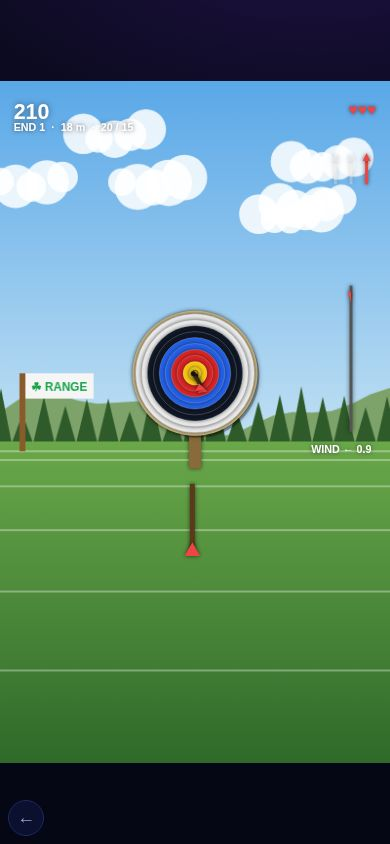
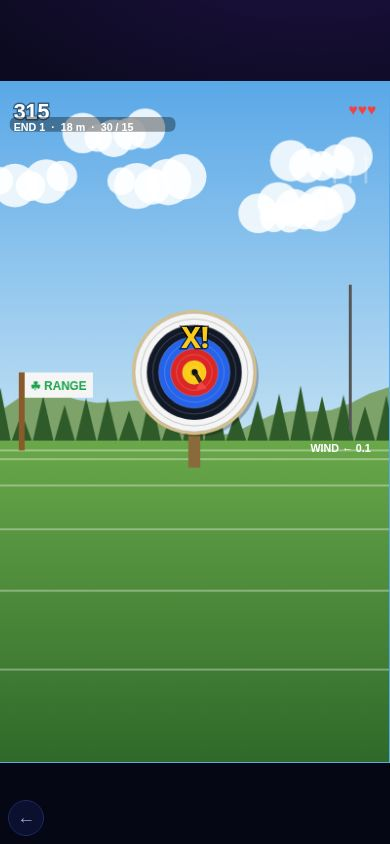
games-lib: Bullseye fix (g.end clash broke game over; perf cache); e2e + bug pass PASS

diff --git a/public/games-lib/bullseye/game.js b/public/games-lib/bullseye/game.js
@@ -11,21 +11,22 @@
     c.strokeStyle = 'rgba(255,255,255,.35)'; c.lineWidth = 2; for (let i = 0; i < 6; i++) { const y = 380 + i * i * 9; c.beginPath(); c.moveTo(0, y); c.lineTo(W, y); c.stroke(); }
     c.fillStyle = '#8a5a2a'; c.fillRect(20, 300, 6, 80); c.fillStyle = '#f5f5f5'; c.fillRect(26, 300, 70, 26); c.fillStyle = '#16a34a'; c.font = 'bold 12px sans-serif'; c.fillText('\u2618 RANGE', 32, 318);
     return (SKY = cv); }
-  function target(c, x, y, r) { const cols = ['#f5f5f5', '#f5f5f5', '#111827', '#111827', '#2563eb', '#2563eb', '#dc2626', '#dc2626', '#facc15', '#facc15'];
+  const TC = {}; function target(c, x, y, r) { const k = Math.round(r); if (!TC[k]) { const cv = document.createElement('canvas'); cv.width = k * 2.4 + 8; cv.height = k * 3 + 8; target0(cv.getContext('2d'), cv.width / 2, k * 1.2 + 4, k); TC[k] = cv; } c.drawImage(TC[k], x - TC[k].width / 2, y - k * 1.2 - 4); }
+  function target0(c, x, y, r) { const cols = ['#f5f5f5', '#f5f5f5', '#111827', '#111827', '#2563eb', '#2563eb', '#dc2626', '#dc2626', '#facc15', '#facc15'];
     c.fillStyle = '#8a6a3a'; c.fillRect(x - r * 0.1, y, r * 0.2, r * 1.6); c.save(); c.translate(x, y); c.fillStyle = 'rgba(0,0,0,.25)'; c.beginPath(); c.arc(r * 0.06, r * 0.06, r * 1.02, 0, 7); c.fill(); c.fillStyle = '#d6c08a'; c.beginPath(); c.arc(0, 0, r * 1.05, 0, 7); c.fill();
     for (let i = 0; i < 10; i++) { const rr = r * (1 - i / 10); c.fillStyle = cols[i]; c.beginPath(); c.arc(0, 0, rr, 0, 7); c.fill(); c.strokeStyle = i < 2 ? '#999' : 'rgba(255,255,255,.4)'; c.lineWidth = Math.max(0.5, r / 120); c.stroke(); } c.strokeStyle = '#111'; c.beginPath(); c.arc(0, 0, r * 0.05, 0, 7); c.stroke(); c.restore(); }
-  function newEnd(g) { g.arrows = 3; g.endScore = 0; g.hits = []; g.dist = 18 + g.end * 6; g.wind = g.R(-1, 1) * Math.min(12, 2 + g.end * 1.2); g.need = 15; }
+  function newEnd(g) { g.arrows = 3; g.endScore = 0; g.hits = []; g.dist = 18 + g.endN * 6; g.wind = g.R(-1, 1) * Math.min(12, 2 + g.endN * 1.2); g.need = 15; }
   Kit.run({ id: 'gl-bullseye', title: 'BULLSEYE', help: 'Press and drag to aim, release to shoot. The sight steadies, then tires after 3 s\nAim into the wind and above for drop. Hit 15+ per end of 3 arrows', bg: '#5aa8e8',
-    init(g) { g.end = 0; g.lives = 3; g.xs = 0; g.fly = null; newEnd(g); g.aim = { x: TX, y: TY }; g.hold = 0; g.hud = ''; },
+    init(g) { g.endN = 0; g.lives = 3; g.xs = 0; g.fly = null; newEnd(g); g.aim = { x: TX, y: TY }; g.hold = 0; g.hud = ''; },
     update(g, dt) { const P = g.ptr; const r = 1100 / g.dist; // target radius in px
       if (g.fly) { const f = g.fly; f.t += dt; if (f.t >= f.T) { const hx = f.x, hy = f.y, d = Math.hypot(hx - TX, hy - TY) / r; const ring = d <= 0.05 ? 11 : Math.max(0, 10 - Math.floor(d * 10)); const pts = ring === 11 ? 10 : ring;
           g.hits.push({ x: (hx - TX) / r, y: (hy - TY) / r }); g.endScore += pts; g.add(pts * 10 + (ring === 11 ? 5 : 0), 'arrow'); if (ring === 11) { g.xs++; g.mark('x', g.xs); } g.sfx(pts ? 'hit' : 'bad'); g.shake(pts ? 2 : 0); g.float(hx, hy - 30, ring === 11 ? 'X!' : pts ? String(pts) : 'MISS', ring >= 9 ? '#facc15' : '#fff', ring >= 9 ? 30 : 22); g.fly = null; g.arrows--; if (navigator.vibrate) navigator.vibrate(10);
           if (g.arrows <= 0) { g.endT = 1.4; } } return; }
-      if (g.endT) { g.endT -= dt; if (g.endT <= 0) { g.endT = 0; if (g.endScore < g.need) { g.lives--; g.sfx('bad'); g.float(200, 520, 'END ' + g.endScore + ' / ' + g.need + ' - LIFE LOST', '#ff5a5a', 18); if (g.lives <= 0) return g.end('Missed the cut'); } else { g.add(g.end * 20, 'end'); } g.end++; g.mark('e', g.end); newEnd(g); } return; }
+      if (g.endT) { g.endT -= dt; if (g.endT <= 0) { g.endT = 0; if (g.endScore < g.need) { g.lives--; g.sfx('bad'); g.float(200, 520, 'END ' + g.endScore + ' / ' + g.need + ' - LIFE LOST', '#ff5a5a', 18); if (g.lives <= 0) return g.end('Missed the cut'); } else { g.add(g.endN * 20, 'end'); } g.endN++; g.mark('e', g.endN); newEnd(g); } return; }
       if (P.pressed) { g.hold = 0; g.sx = P.x; g.sy = P.y; g.ax0 = g.aim.x; g.ay0 = g.aim.y; }
       if (P.down) { g.hold += dt; g.aim.x = Kit.clamp(g.ax0 + (P.x - g.sx) * 0.6, 20, 380); g.aim.y = Kit.clamp(g.ay0 + (P.y - g.sy) * 0.6, 80, 560); }
       const k = g.keys; if (k.ArrowLeft) g.aim.x -= 90 * dt; if (k.ArrowRight) g.aim.x += 90 * dt; if (k.ArrowUp) g.aim.y -= 90 * dt; if (k.ArrowDown) g.aim.y += 90 * dt; if (k[' ']) g.hold += dt;
-      const amp = 14 * (g.hold < 1.2 ? 1 - g.hold / 1.2 * 0.75 : g.hold < 3 ? 0.25 : 0.25 + (g.hold - 3) * 0.6) * (1 + g.end * 0.05); g.sway = { x: Math.sin(g.t * 1.9) * amp + Math.sin(g.t * 3.1) * amp * 0.4 + Math.sin(g.t * 0.53) * 3, y: Math.sin(g.t * 2.3 + 1) * amp * 0.8 + Math.sin(g.t * 0.71 + 2) * 3 };
+      const amp = 14 * (g.hold < 1.2 ? 1 - g.hold / 1.2 * 0.75 : g.hold < 3 ? 0.25 : 0.25 + (g.hold - 3) * 0.6) * (1 + g.endN * 0.05); g.sway = { x: Math.sin(g.t * 1.9) * amp + Math.sin(g.t * 3.1) * amp * 0.4 + Math.sin(g.t * 0.53) * 3, y: Math.sin(g.t * 2.3 + 1) * amp * 0.8 + Math.sin(g.t * 0.71 + 2) * 3 };
       const rel = (P.released && g.hold > 0.15) || g.kd('Enter') || (g.kp && g.kp[' '] === false);
       if ((P.released && g.hold > 0.15) || (g._spaceWas && !k[' '])) { const sx = g.aim.x + g.sway.x, sy = g.aim.y + g.sway.y; const drop = g.dist * g.dist * 0.035 * (r / 60), drift = g.wind * g.dist * 0.12 * (r / 60); const T = 0.25 + g.dist / 120; g.fly = { x0: sx, y0: sy, x: sx + drift, y: sy + drop, t: 0, T }; g.hold = 0; g.sfx('whoosh'); }
       g._spaceWas = !!k[' ']; },
@@ -39,5 +40,5 @@
         // bow (first person, bottom)
         const bx = 200 + (sx - 200) * 0.15, by = 640; c.save(); c.translate(bx, by); c.strokeStyle = '#3a2414'; c.lineWidth = 10; c.lineCap = 'round'; c.beginPath(); c.moveTo(-150, -40); c.quadraticCurveTo(0, -150 - g.hold * 6, 150, -40); c.stroke(); c.strokeStyle = '#7a5032'; c.lineWidth = 5; c.stroke(); c.strokeStyle = 'rgba(255,255,255,.7)'; c.lineWidth = 1; c.beginPath(); c.moveTo(-150, -40); c.lineTo(0, -40 + Math.min(40, g.hold * 40)); c.lineTo(150, -40); c.stroke(); c.fillStyle = '#16a34a'; Kit.rr(c, -14, -120, 28, 34, 6); c.fill(); c.fillStyle = '#9dff7a'; c.font = 'bold 12px serif'; c.textAlign = 'center'; c.fillText('\u2618', 0, -98); c.restore(); }
       for (let i = 0; i < 3; i++) { c.fillStyle = i < g.arrows ? '#ef4444' : 'rgba(255,255,255,.3)'; c.save(); c.translate(g.W - 24 - i * 16, 80); c.fillRect(-1.5, 0, 3, 26); c.beginPath(); c.moveTo(0, -6); c.lineTo(-4, 2); c.lineTo(4, 2); c.fill(); c.restore(); } },
-    hudDraw(g, c) { c.textAlign = 'left'; c.font = 'bold 22px sans-serif'; c.fillStyle = '#fff'; c.shadowColor = 'rgba(0,0,0,.5)'; c.shadowBlur = 6; c.fillText(Math.floor(g.score).toLocaleString('en-US'), 14, 32); c.shadowBlur = 0; c.font = 'bold 11px sans-serif'; c.fillStyle = '#fff'; c.shadowColor = 'rgba(0,0,0,.6)'; c.shadowBlur = 4; c.fillText('END ' + (g.end + 1) + '  \u00b7  ' + g.dist + ' m  \u00b7  ' + g.endScore + ' / ' + g.need, 14, 48); c.textAlign = 'right'; c.font = 'bold 16px sans-serif'; c.fillStyle = '#ef4444'; c.fillText('\u2665'.repeat(Math.max(0, g.lives)), g.W - 14, 30); } });
+    hudDraw(g, c) { c.textAlign = 'left'; c.font = 'bold 22px sans-serif'; c.fillStyle = '#fff'; c.lineWidth = 3; c.strokeStyle = 'rgba(0,0,0,.45)'; c.strokeText(Math.floor(g.score).toLocaleString('en-US'), 14, 32); c.fillText(Math.floor(g.score).toLocaleString('en-US'), 14, 32); c.font = 'bold 11px sans-serif'; c.fillStyle = '#fff'; c.fillStyle = 'rgba(0,0,0,.35)'; Kit.rr(c, 10, 37, 170, 15, 6); c.fill(); c.fillStyle = '#fff'; c.fillText('END ' + (g.endN + 1) + '  \u00b7  ' + g.dist + ' m  \u00b7  ' + g.endScore + ' / ' + g.need, 14, 48); c.textAlign = 'right'; c.font = 'bold 16px sans-serif'; c.fillStyle = '#ef4444'; c.fillText('\u2665'.repeat(Math.max(0, g.lives)), g.W - 14, 30); } });
 })();

diff --git a/docs/GAMES-LIB.md b/docs/GAMES-LIB.md
@@ -614,4 +614,5 @@ For each reference we searched GitHub (topics html5-game / javascript-game / pha
 - Source hunt: GitHub "archery game html5" (side-view stickman clones with no licence; one MIT three.js demo without scoring), itch.io (Unity), js13k "archer" (none fit first person). Decision: build our own.
 - Gameplay: first-person, World Archery 10-ring target. Drag to aim; the sight sways with breath, steadies for about 1.2-3 s of holding, then tires and wobbles more, plus a slow drift. Release to shoot. Drop grows with distance squared and wind drift shows on the flag, so you aim off to compensate. 3 arrows per end; under 15 points costs a life (3). Distance goes 18 m +6 m per end and the target shrinks, so it's endless. X ring tracked as a skill metric.
 - Art: painted sky with clouds, hills, pine line, mown range stripes, "RANGE" sign, layered target face on a wooden stand, arrow flight shrinking toward the target, stuck arrows, first-person bow with drawn string and leaf grip, wind flag.
+- Fix: my end counter was named `g.end`, which overwrote Kit's `g.end()` game-over function. The first commit (3a6e6d9) went in with a FAIL I missed; renamed it to `g.endN`. Perf: target faces cached per radius and no shadowBlur in the HUD (throttled fps 20 -> 56).
 - Tests: compensating bot (with release jitter) finished 5 ends without losing a life. e2e PASS. Bug pass PASS. Rating: visual 7/10, feel 7.5/10.

diff --git a/HANDOFF-AGENT.md b/HANDOFF-AGENT.md
@@ -57,6 +57,7 @@ Phases 1-9 DONE (incl. 8b i18n: 21 languages, body text of player pages, RTL; fi
 - Moon Lander (Lunar Lander) DONE (07:35)
 - Pin Strike (Bowling) DONE (07:47)
 - Bullseye (Archery) DONE (07:50)
+- Bullseye fix: game-over clash + perf (07:54)
 - Cup Toss harder: power meter + aim wobble, bot 68% (07:26)
 - Bud Bar (Tapper) UPGRADED (06:46); polish backlog: Neon Flipper ramps + spinner
 - Missile Guard (Missile Command) UPGRADED (06:44)
